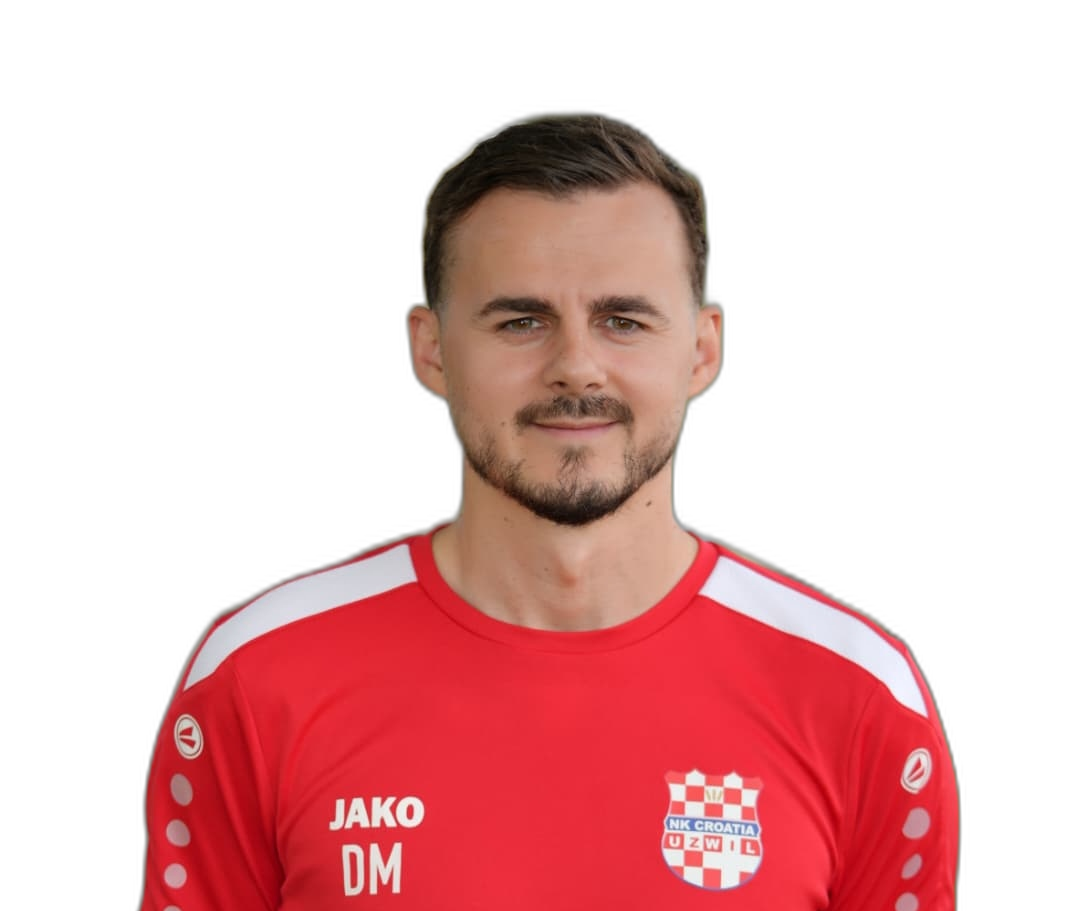
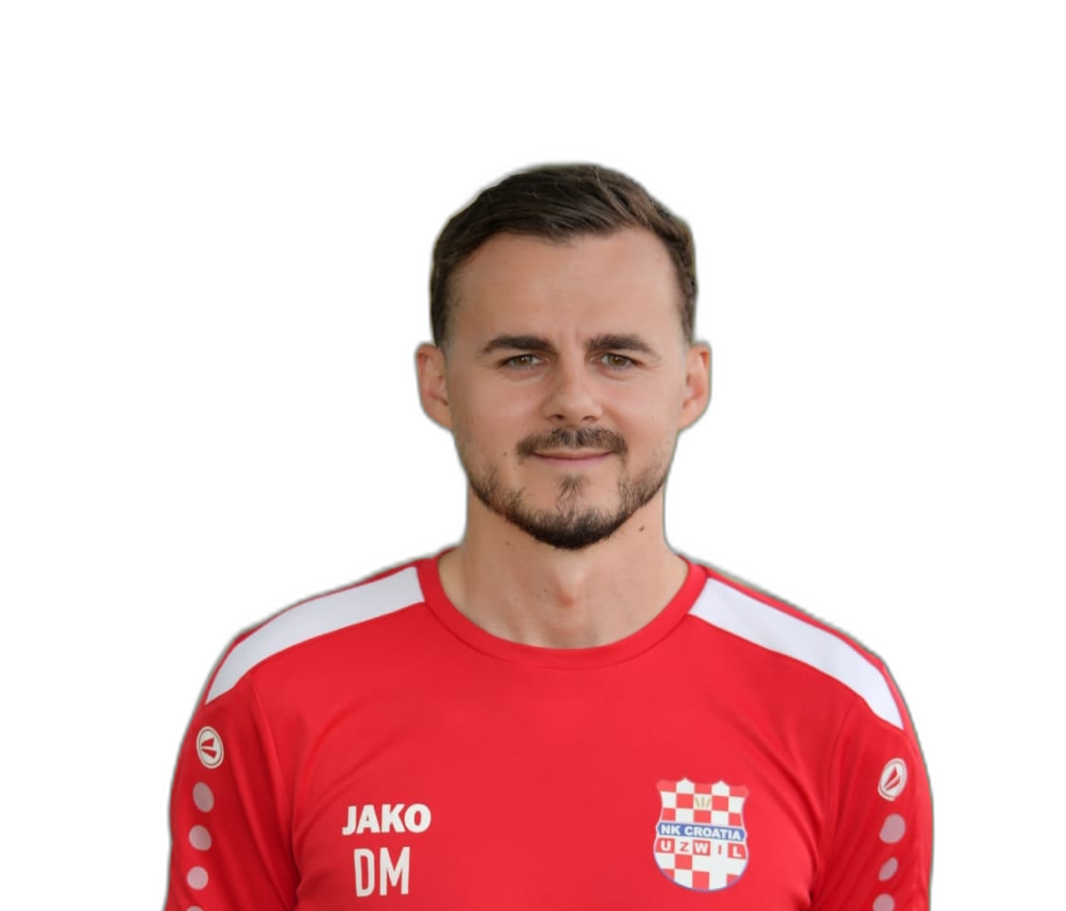
Lineup cut-outs: scale down the 11 tightly framed ones (Martić, Hasallari, Vičić, ...) to the median size; sw.js cache v26
Claude-Session: https://claude.ai/code/session_012cziMATaV3CPcJGagGzEQs

Changed region(s): [[0.1238, 0.1229, 0.9287, 1.0]]

diff --git a/sw.js b/sw.js
@@ -1,4 +1,4 @@
-const CACHE = 'nk-croatia-v25';
+const CACHE = 'nk-croatia-v26';
 const ASSETS = [
   '/',
   '/index.html',
